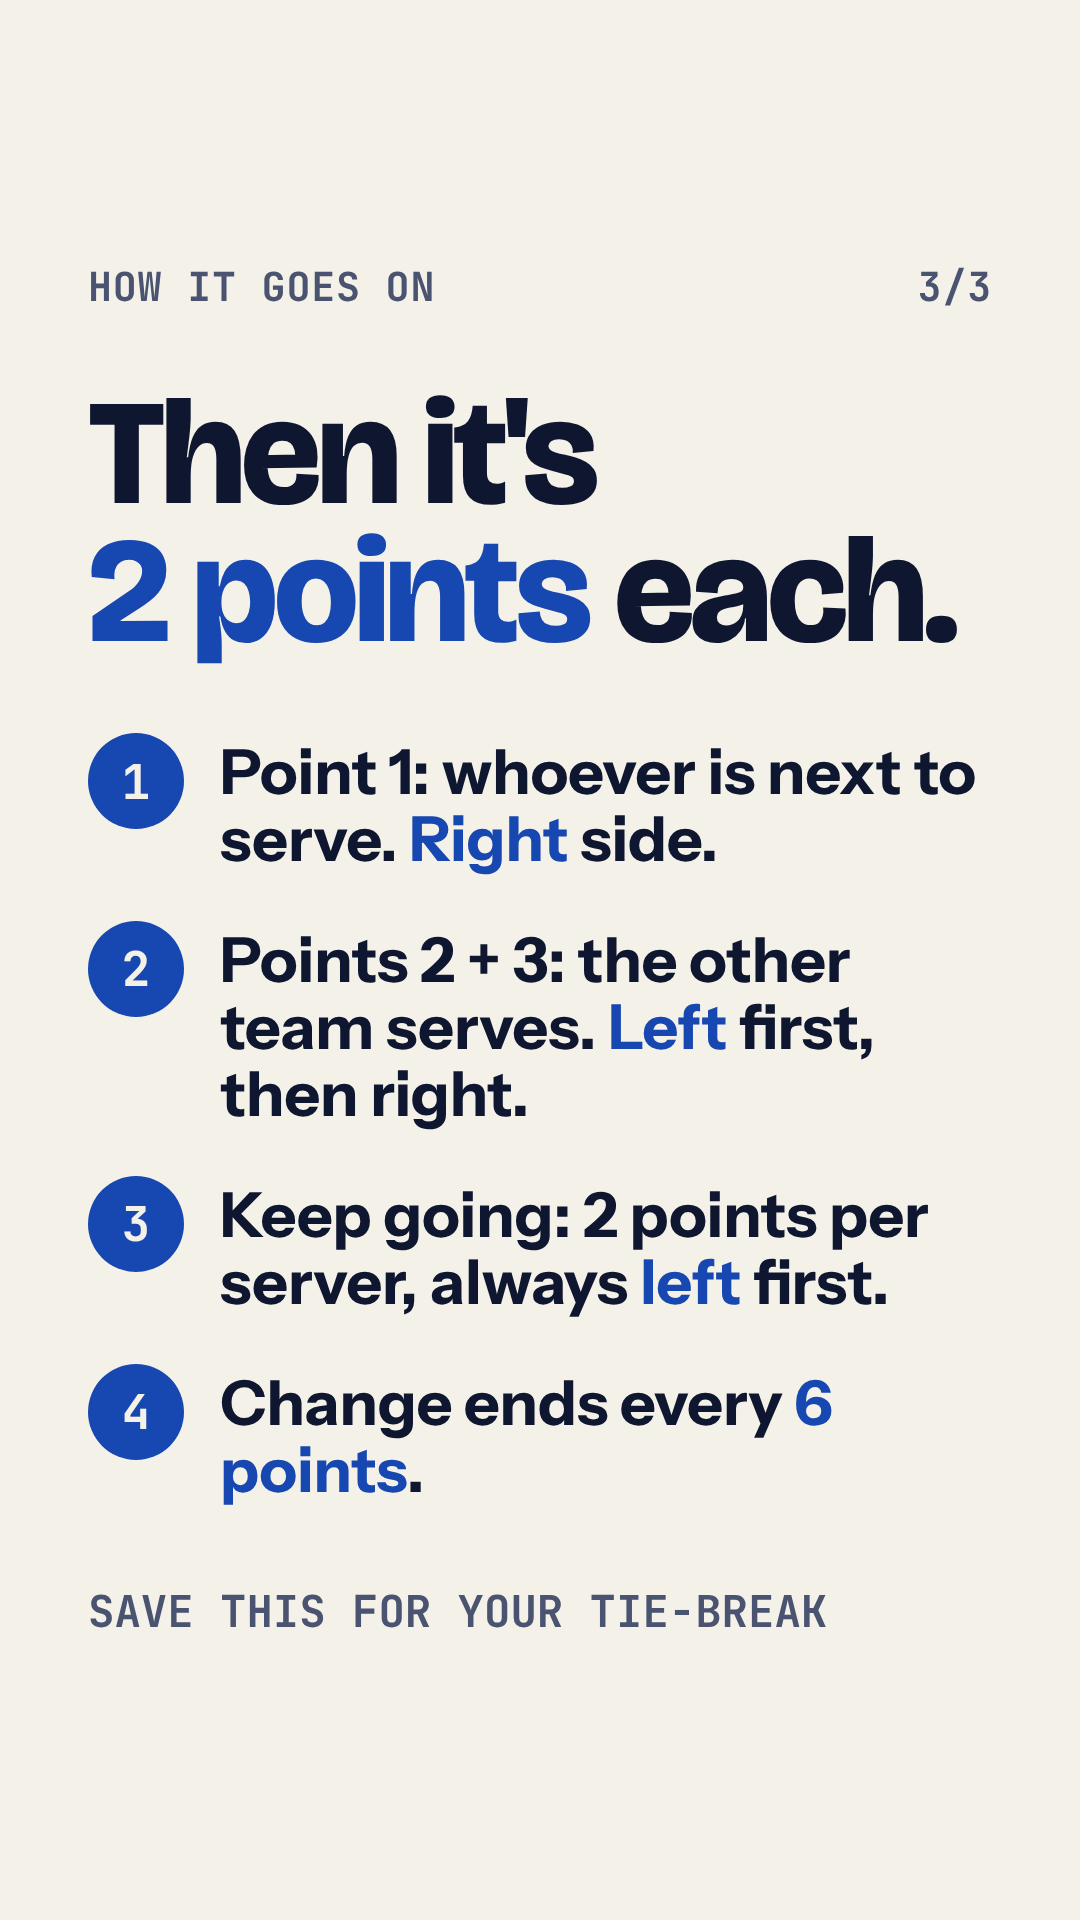
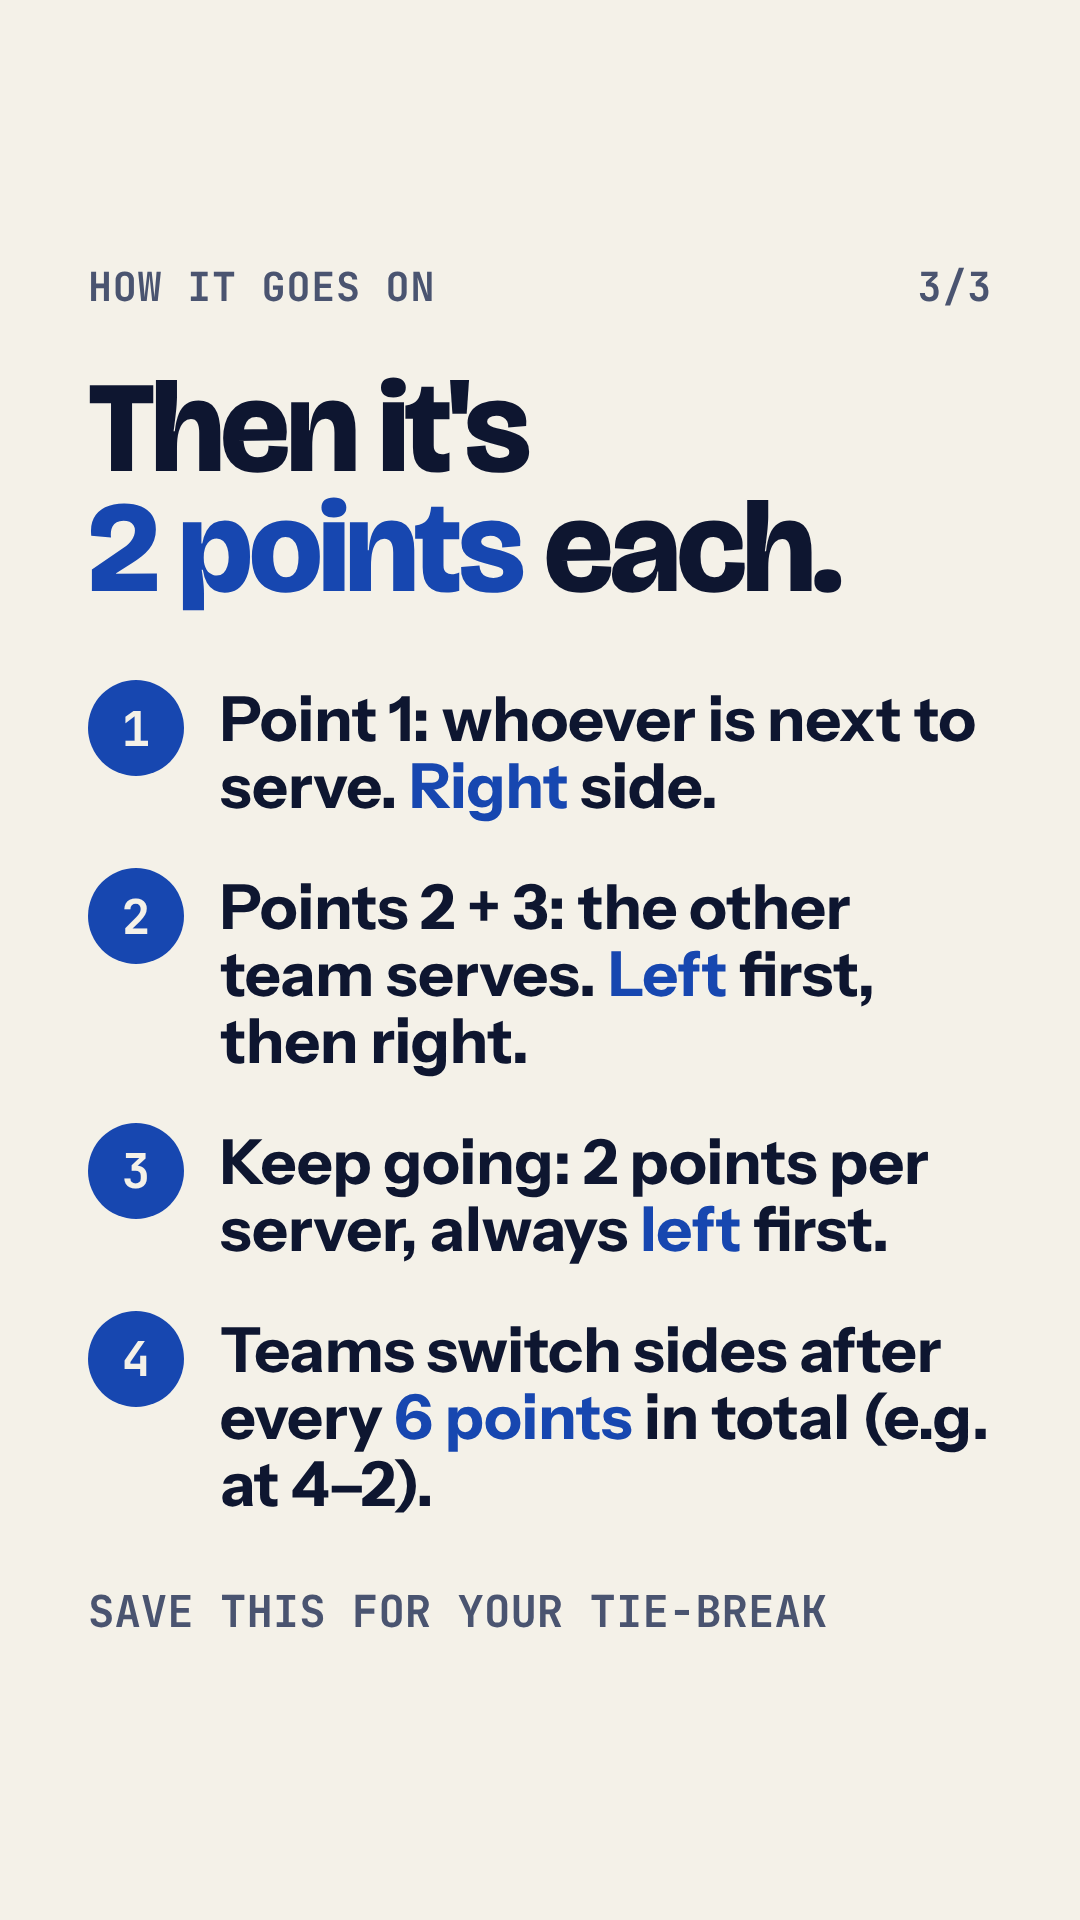
Story Tiebreak: Schritt 4 eindeutiger (Seitenwechsel)
Claude-Session: https://claude.ai/code/session_01QkVtpd5pUHv7AHrWCFBuCg

Changed region(s): [[0.0611, 0.1875, 0.9167, 0.7812]]

diff --git a/engine/story.py b/engine/story.py
@@ -52,7 +52,7 @@ def steps(s, n, t):
     return f'''<div class="post" style="background:{C['paper']};color:{C['night']}">
   <style>.hlc{{color:{C['court']}}}</style>
   <div class="top" style="color:{C['muted']}"><span>How it goes on</span><span>{n}/{t}</span></div>
-  <h1 class="disp" style="margin-top:72px;font-size:150px;line-height:.92">{fmt(s['title'], 'hlc')}</h1>
+  <h1 class="disp" style="margin-top:56px;font-size:130px;line-height:.92">{fmt(s['title'], 'hlc')}</h1>
   <div style="display:flex;flex-direction:column;gap:48px;margin-top:72px">{rows}</div>
   <p style="margin:auto 0 0;font-family:'JetBrains Mono',monospace;font-size:44px;font-weight:700;text-transform:uppercase;color:{C['muted']}">{fmt(s['foot'])}</p>
 </div>'''
